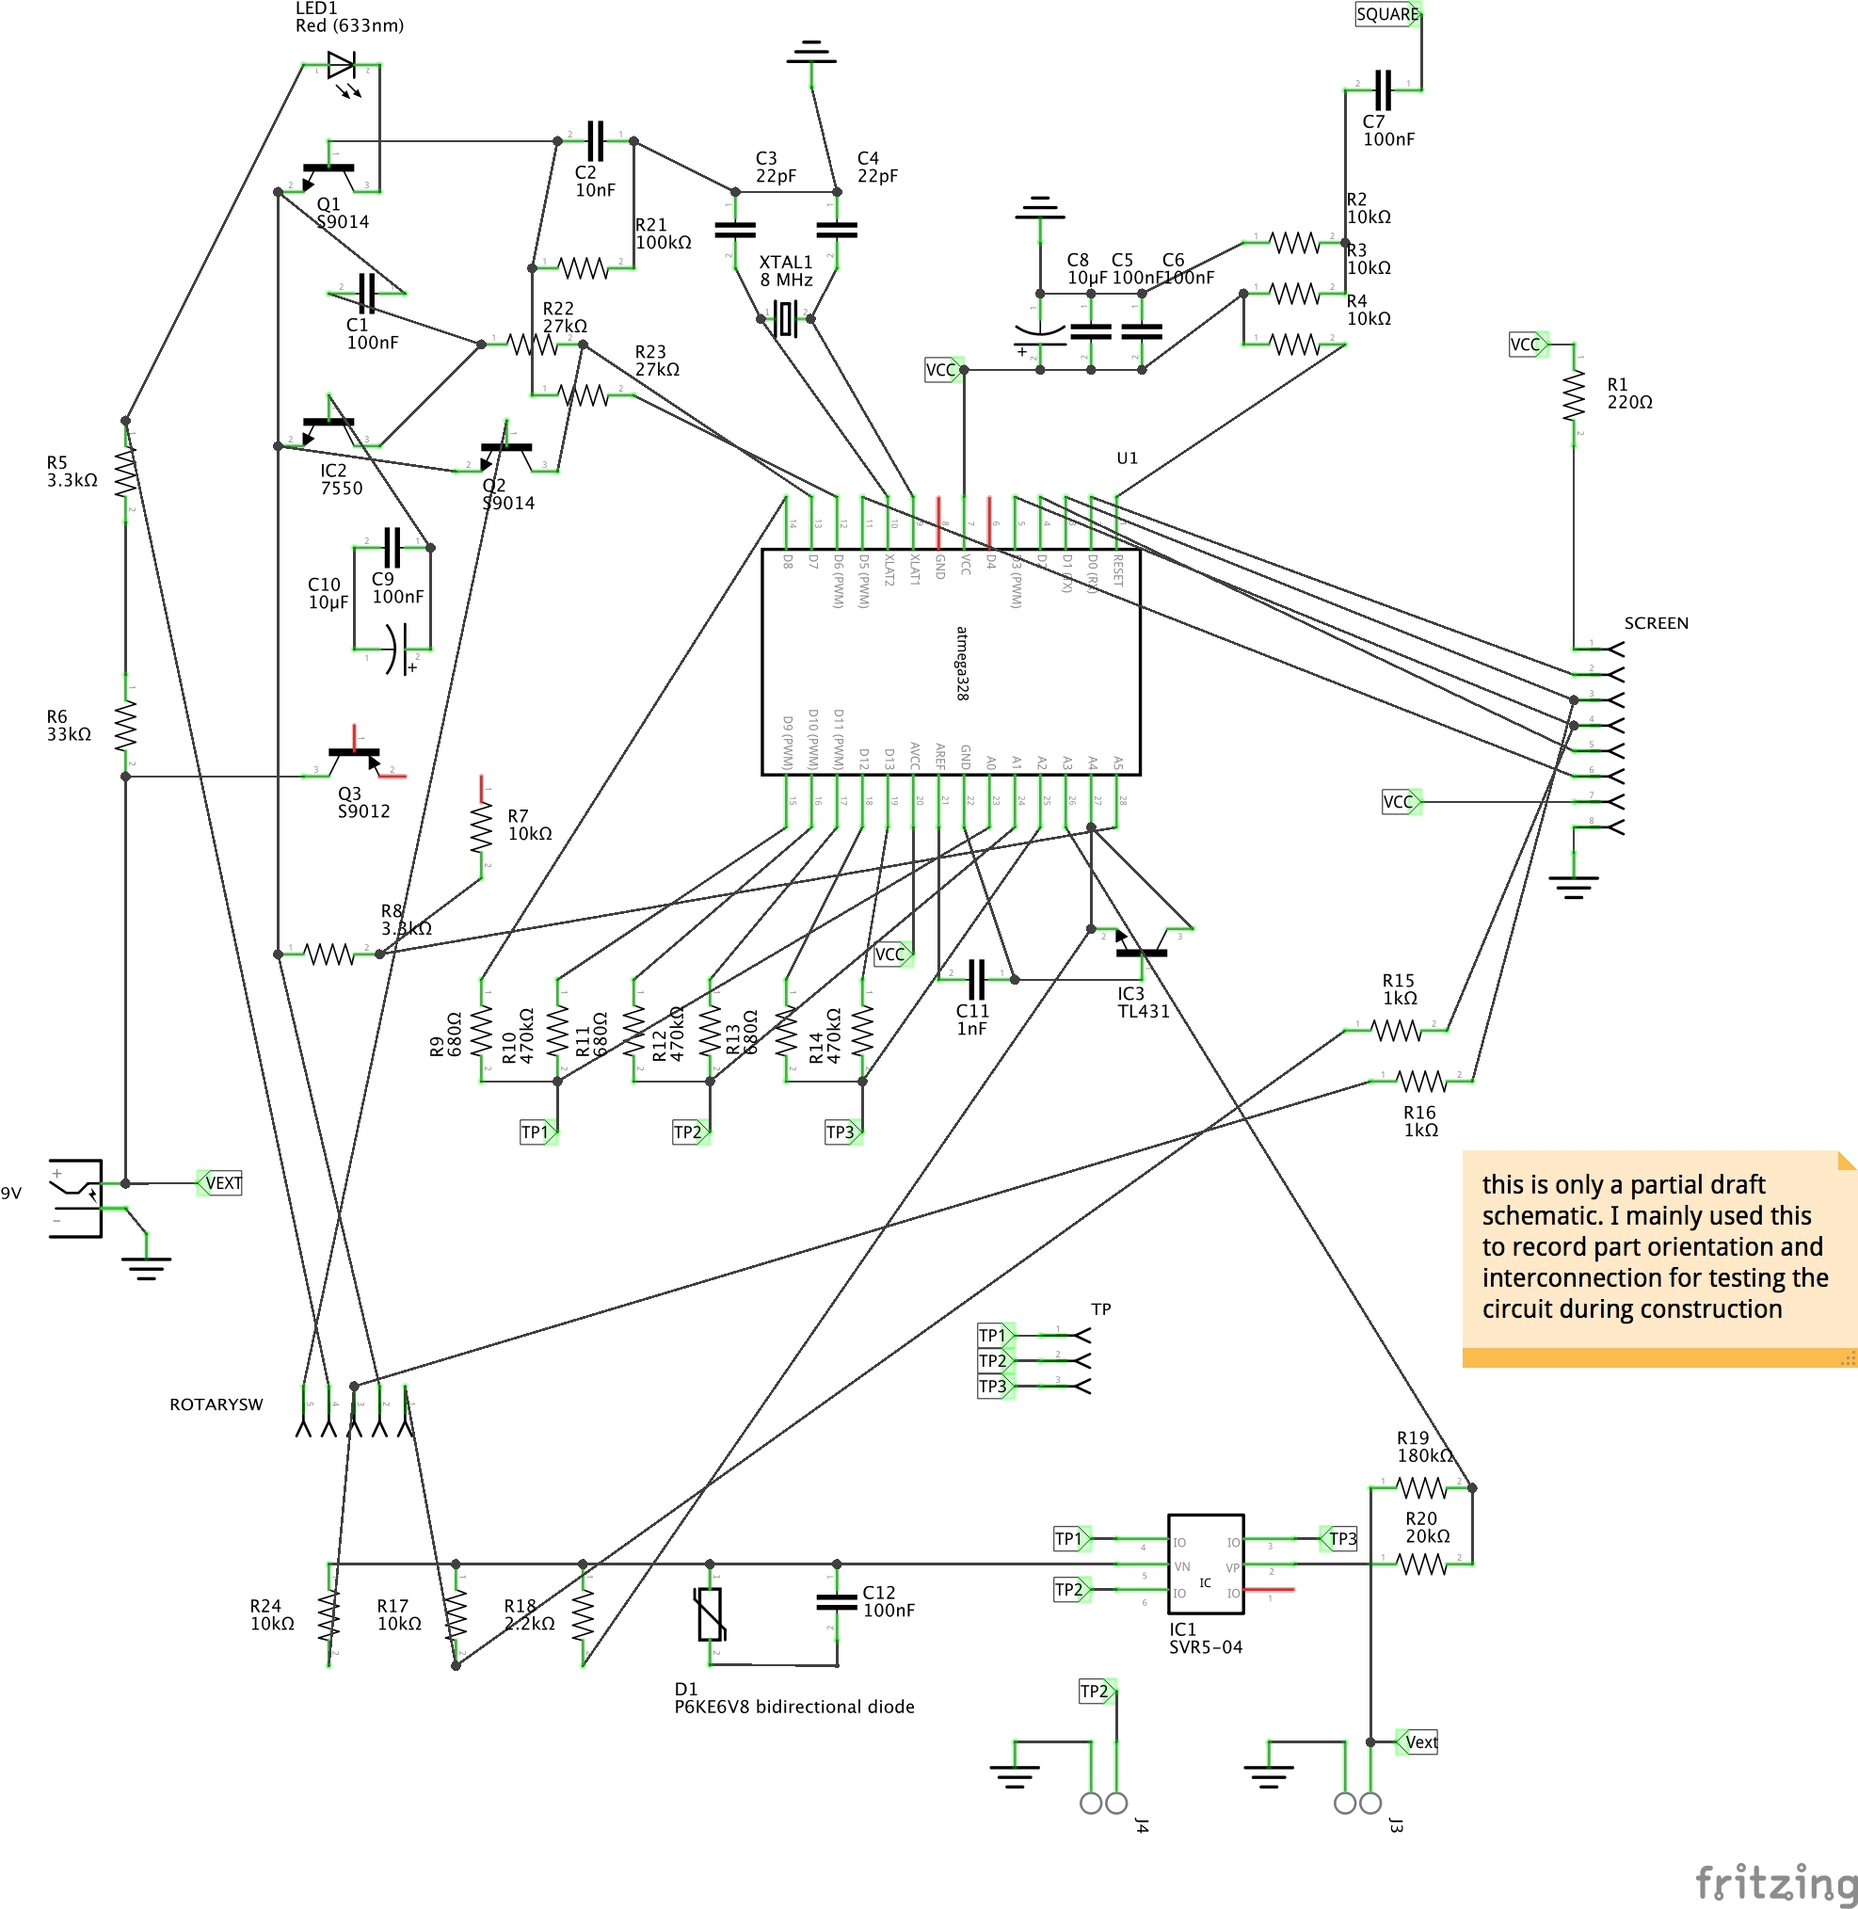
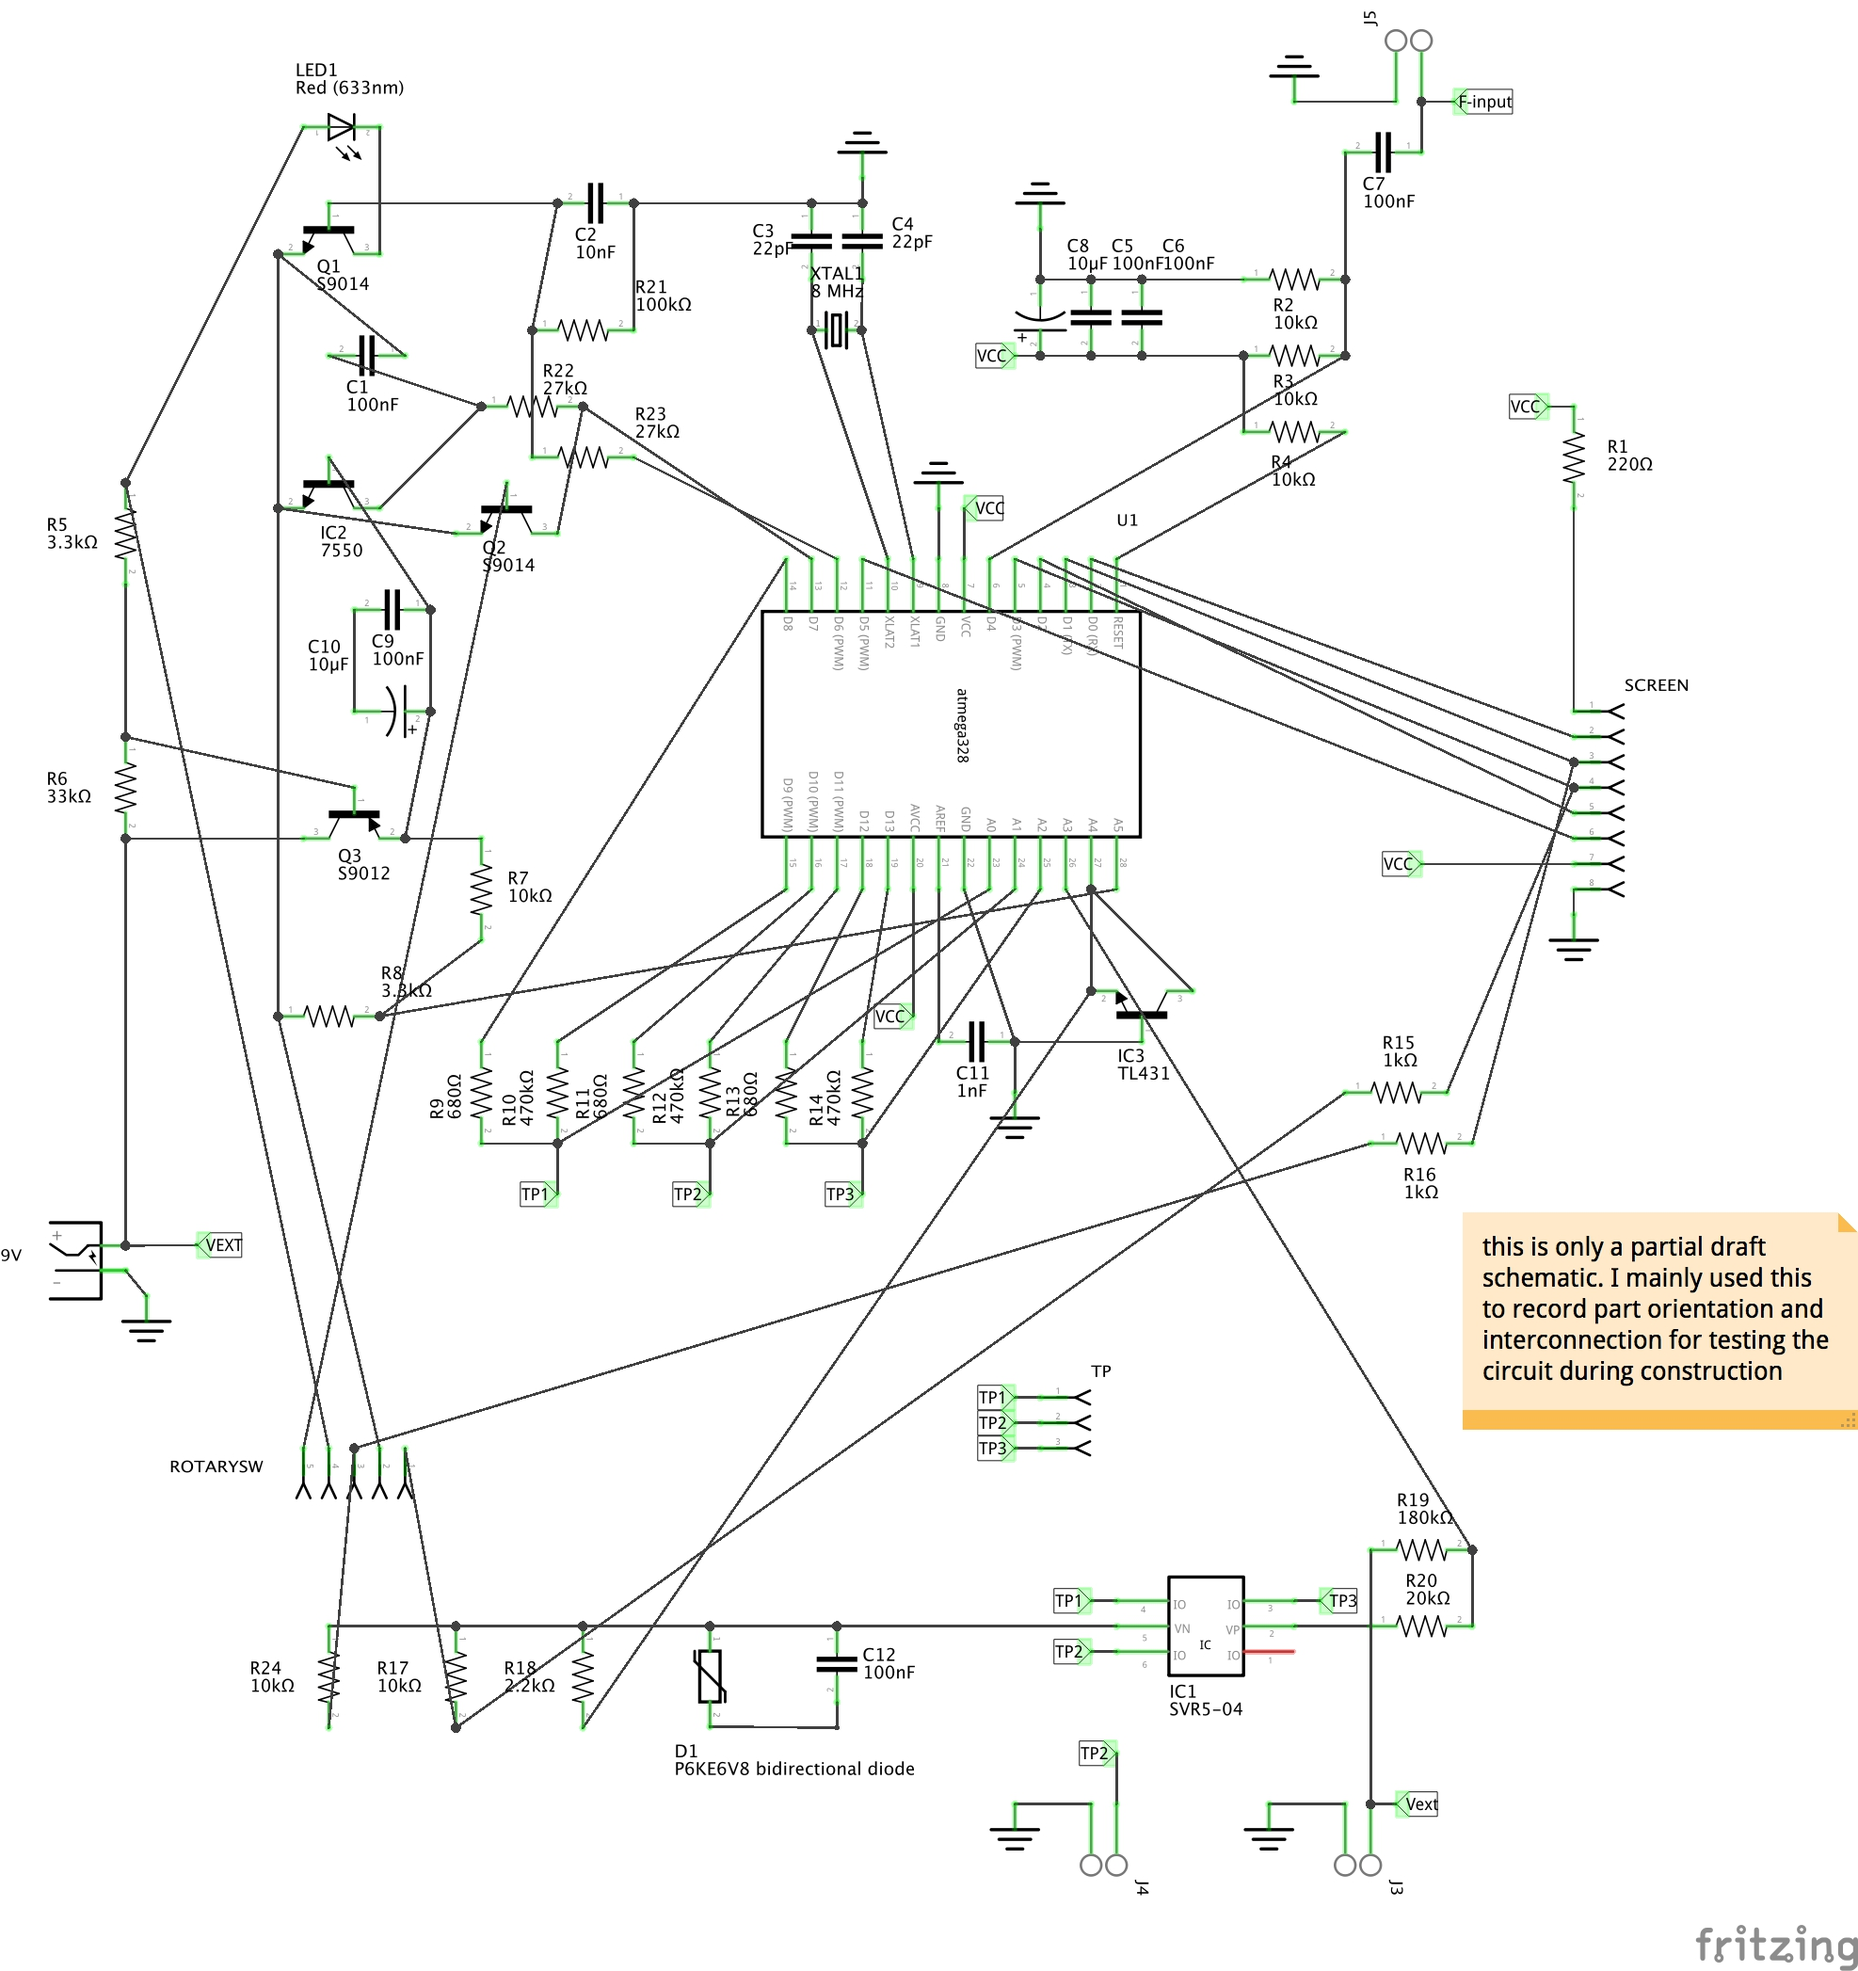
[ComponentTesterKit] add frequency measurement notes

diff --git a/Equipment/ComponentTesterKit/README.md b/Equipment/ComponentTesterKit/README.md
@@ -301,12 +301,14 @@ with a value of some nF parallel to the gate/source. The gate threshold voltage 
 3.5mA for a P-E-MOS and about 4mA for a N-E-MOS
 
 
-### Frequency Measurement
+### Frequency Measurement (Function "Frequency")
 
-For frequencies below 25kHz the normal measurement is followed by a measurement of period time.
-This additional measurement is only followed after a normal frequency measurement.
+This function measures frequencies up to 25kHz on the upper terminal block (J5).
+It samples and reports the frequency every few seonds.
 
-TODO: not sure where the frequency input is expected
+Here's is a 1kHz sine wave, 4V peak-to-peak being measured:
+
+![test_frequency](./assets/test_frequency.gif?raw=true)
 
 
 ### Signal Generator (Function "f-Generator")
